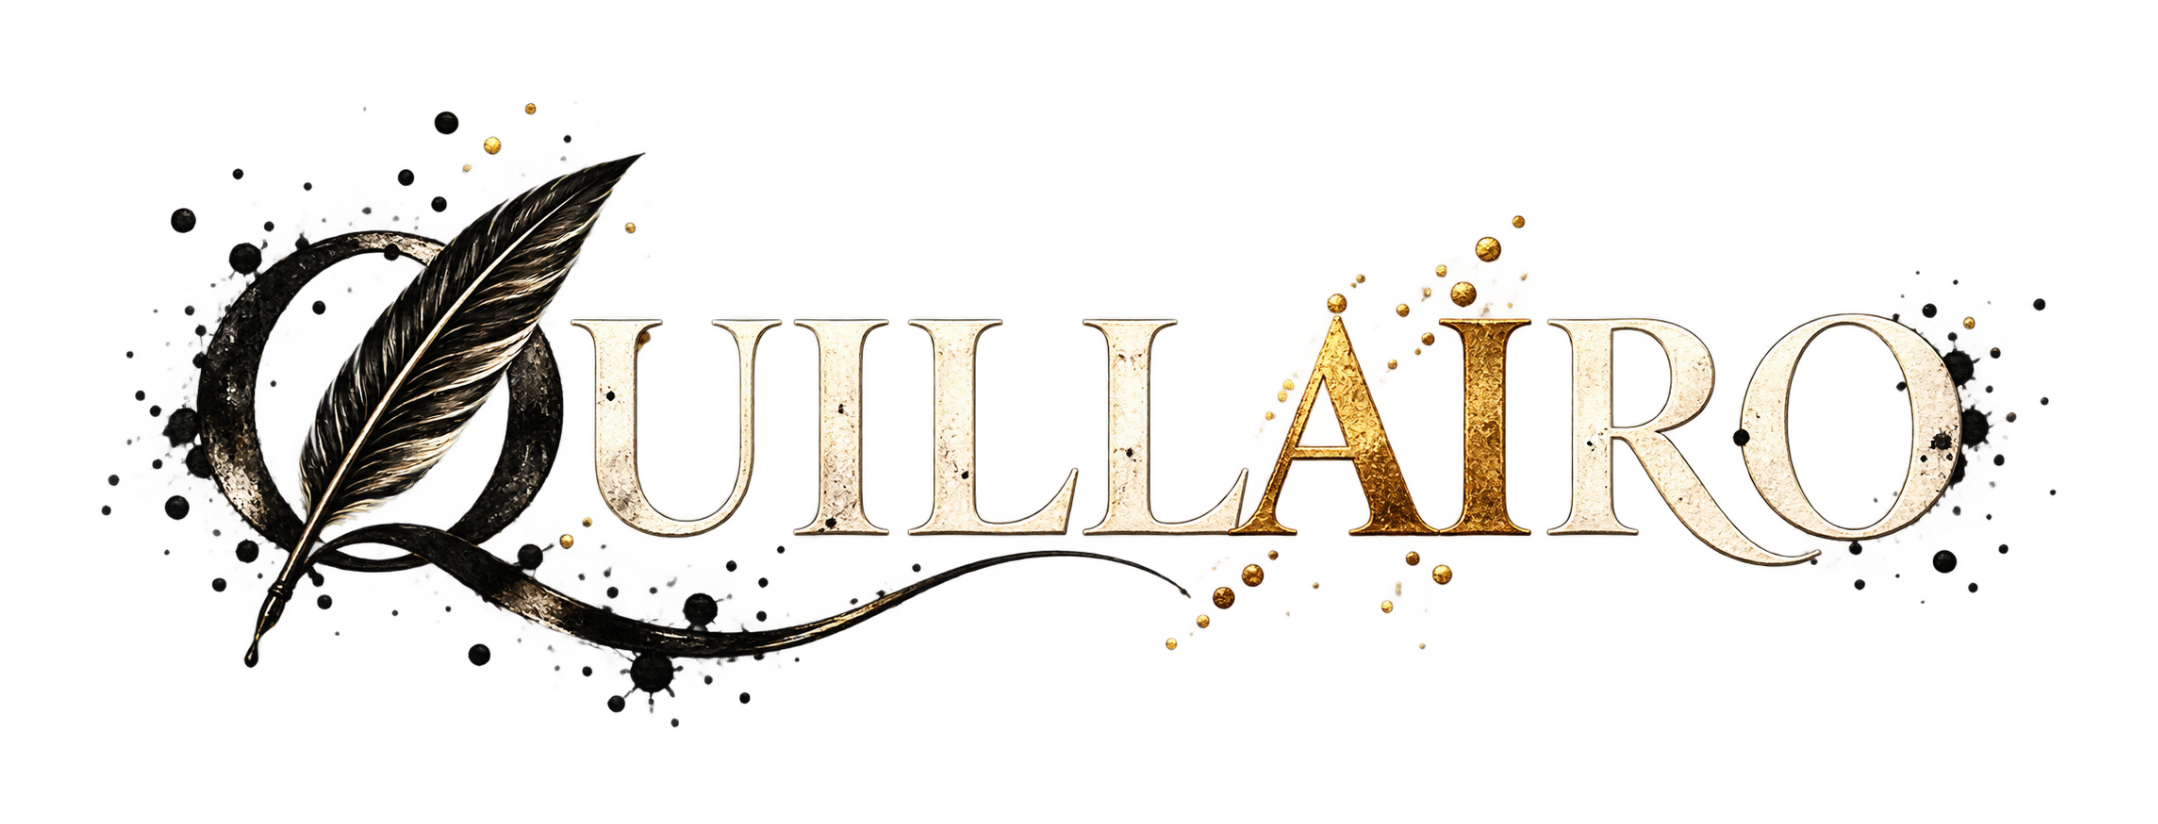
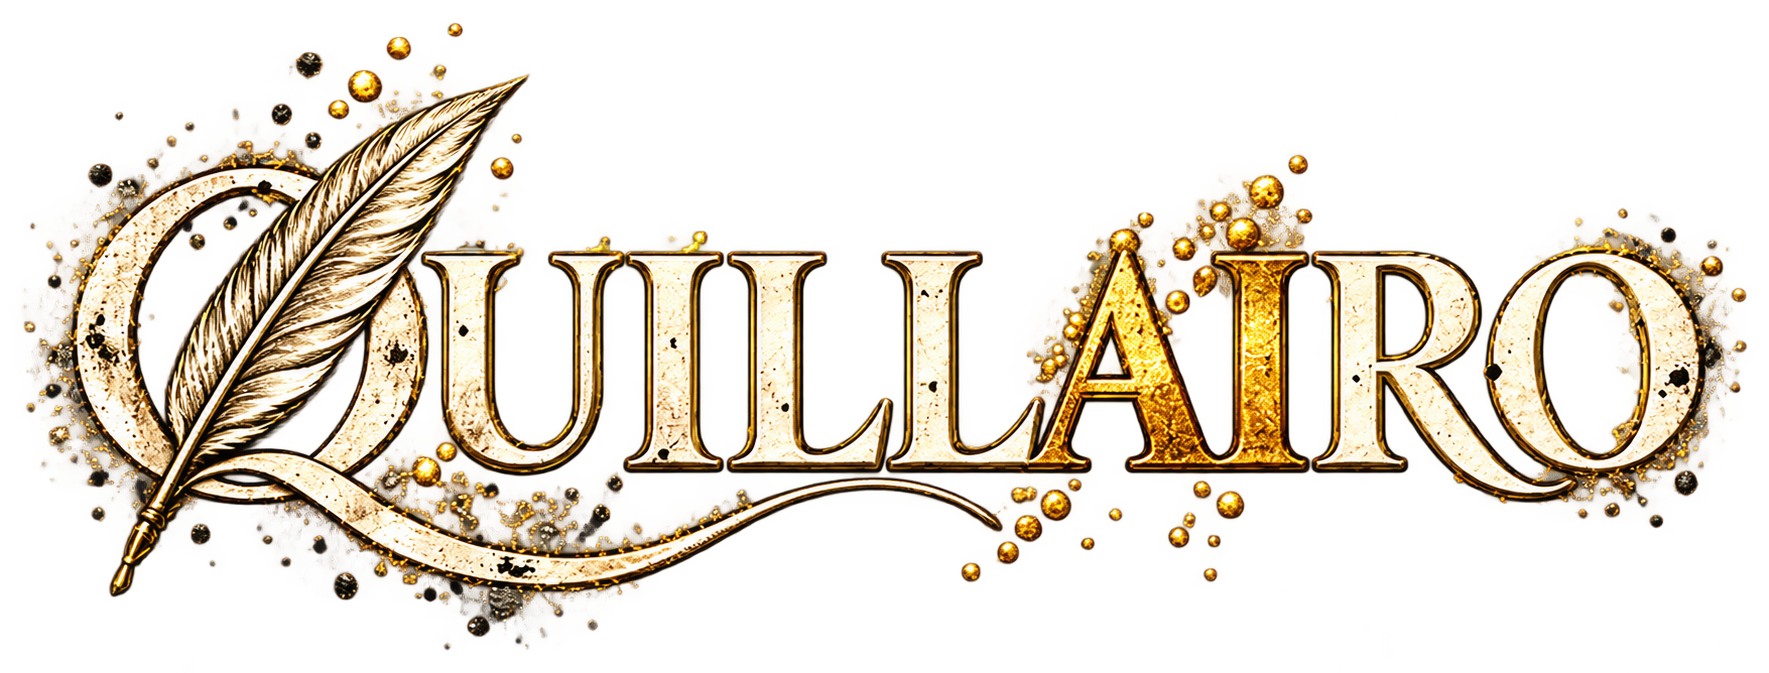
Pass 66.9.1: Story Time drop cap regression fix

diff --git a/frontend/src/pages/game/inkboundPass658.css b/frontend/src/pages/game/inkboundPass658.css
@@ -5,7 +5,7 @@
 .inkbound-lobby[data-ink-paper="cream"]{--ia-paper:#eee7d9;--ia-text:#30291e;--ia-copy:#504433;--ia-dim:#6a5a46;--ia-rule:rgba(55,40,22,.22);--ia-strong-rule:rgba(55,40,22,.39);--ia-wash:rgba(55,40,22,.065)}
 .inkbound-lobby[data-ink-paper="navy"]{--ia-paper:#0b1725;--ia-text:#f4e9d6;--ia-copy:#ded2bd;--ia-dim:#c0b6a5;--ia-rule:rgba(242,246,250,.26);--ia-strong-rule:rgba(242,246,250,.43);--ia-wash:rgba(242,246,250,.08);color-scheme:dark}
 .inkbound-lobby[data-ink-paper="phosphor"]{--ia-paper:#06140c;--ia-text:#c6f9b1;--ia-copy:#a9dfa1;--ia-dim:#94bf8b;--ia-rule:rgba(201,255,184,.25);--ia-strong-rule:rgba(201,255,184,.43);--ia-wash:rgba(201,255,184,.075);color-scheme:dark}
-.inkbound-lobby[data-ink-paper="midnight"]{--ia-paper:#141516;--ia-text:#f5f6f3;--ia-copy:#ced2d0;--ia-dim:#adb2b0;--ia-rule:rgba(245,246,243,.26);--ia-strong-rule:rgba(245,246,243,.44);--ia-wash:rgba(245,246,243,.07);color-scheme:dark}
+.inkbound-lobby[data-ink-paper="midnight"]{--ia-paper:#141516;--ia-text:#f4e9d6;--ia-copy:#e3d8c5;--ia-dim:#c3b8a8;--ia-rule:rgba(244,233,214,.26);--ia-strong-rule:rgba(244,233,214,.44);--ia-wash:rgba(244,233,214,.07);color-scheme:dark}
 .game-site-shell:has(.inkbound-lobby){min-height:100dvh!important;height:auto!important;max-height:none!important;overflow:visible!important;background:var(--page-paper,#f7f3e9)!important}
 .game-site-shell:has(.inkbound-lobby)>.site-header{display:none!important}
 .game-site-shell:has(.inkbound-lobby)>.game-main{height:auto!important;min-height:0!important;max-height:none!important;overflow:visible!important;width:100%!important;max-width:none!important;padding:0!important;margin:0!important;display:block!important}
@@ -74,7 +74,7 @@ body:has(.inkbound-lobby[data-ink-paper="ivory"],.inkbound-live[data-ink-paper="
 body:has(.inkbound-lobby[data-ink-paper="cream"],.inkbound-live[data-ink-paper="cream"]) #modal-root{--ia-paper:#eee7d9;--ia-text:#30291e;--ia-copy:#504433;--ia-dim:#6a5a46;--ia-rule:rgba(55,40,22,.22);--ia-wash:rgba(55,40,22,.065);--ia-strong-rule:rgba(55,40,22,.39)}
 body:has(.inkbound-lobby[data-ink-paper="navy"],.inkbound-live[data-ink-paper="navy"]) #modal-root{--ia-paper:#0b1725;--ia-text:#f4e9d6;--ia-copy:#ded2bd;--ia-dim:#c0b6a5;--ia-rule:rgba(242,246,250,.26);--ia-wash:rgba(242,246,250,.08);--ia-strong-rule:rgba(242,246,250,.43);color-scheme:dark}
 body:has(.inkbound-lobby[data-ink-paper="phosphor"],.inkbound-live[data-ink-paper="phosphor"]) #modal-root{--ia-paper:#06140c;--ia-text:#c6f9b1;--ia-copy:#a9dfa1;--ia-dim:#94bf8b;--ia-rule:rgba(201,255,184,.25);--ia-wash:rgba(201,255,184,.075);--ia-strong-rule:rgba(201,255,184,.43);color-scheme:dark}
-body:has(.inkbound-lobby[data-ink-paper="midnight"],.inkbound-live[data-ink-paper="midnight"]) #modal-root{--ia-paper:#141516;--ia-text:#f5f6f3;--ia-copy:#ced2d0;--ia-dim:#adb2b0;--ia-rule:rgba(245,246,243,.26);--ia-wash:rgba(245,246,243,.07);--ia-strong-rule:rgba(245,246,243,.44);color-scheme:dark}
+body:has(.inkbound-lobby[data-ink-paper="midnight"],.inkbound-live[data-ink-paper="midnight"]) #modal-root{--ia-paper:#141516;--ia-text:#f4e9d6;--ia-copy:#e3d8c5;--ia-dim:#c3b8a8;--ia-rule:rgba(244,233,214,.26);--ia-wash:rgba(244,233,214,.07);--ia-strong-rule:rgba(244,233,214,.44);color-scheme:dark}
 body:has(.inkbound-lobby,.inkbound-live) #modal-root .modal-panel{background:var(--ia-paper)!important;color:var(--ia-copy)!important;border:1px solid var(--ia-strong-rule)!important;font-family:"Iowan Old Style",Georgia,serif!important;box-shadow:0 18px 65px rgba(0,0,0,.3)!important}
 body:has(.inkbound-lobby,.inkbound-live) #modal-root .modal-panel .panel-heading{border-bottom:1px solid var(--ia-rule)!important}
 body:has(.inkbound-lobby,.inkbound-live) #modal-root .modal-panel .panel-heading strong{color:var(--ia-text)!important;font:400 clamp(26px,3vw,40px) "Iowan Old Style",Georgia,serif!important}

diff --git a/frontend/src/pages/game/inkboundAdventurePass657.css b/frontend/src/pages/game/inkboundAdventurePass657.css
@@ -4,7 +4,7 @@
 .game-site-shell:has(.inkbound-live[data-ink-paper="cream"]){--ia-paper:#eee7d9;--ia-text:#30291e;--ia-copy:#504433;--ia-dim:#6a5a46;--ia-rule:rgba(55,40,22,.22);--ia-strong-rule:rgba(55,40,22,.39);--ia-wash:rgba(55,40,22,.065);--ia-scrim:rgba(33,24,16,.76)}
 .game-site-shell:has(.inkbound-live[data-ink-paper="navy"]){--ia-paper:#0b1725;--ia-text:#f4e9d6;--ia-copy:#ded2bd;--ia-dim:#c0b6a5;--ia-rule:rgba(242,246,250,.26);--ia-strong-rule:rgba(242,246,250,.43);--ia-wash:rgba(242,246,250,.08);--ia-scrim:rgba(2,8,15,.88);color-scheme:dark}
 .game-site-shell:has(.inkbound-live[data-ink-paper="phosphor"]){--ia-paper:#06140c;--ia-text:#c6f9b1;--ia-copy:#a9dfa1;--ia-dim:#94bf8b;--ia-rule:rgba(201,255,184,.25);--ia-strong-rule:rgba(201,255,184,.43);--ia-wash:rgba(201,255,184,.075);--ia-scrim:rgba(3,13,8,.9);color-scheme:dark}
-.game-site-shell:has(.inkbound-live[data-ink-paper="midnight"]){--ia-paper:#141516;--ia-text:#f5f6f3;--ia-copy:#ced2d0;--ia-dim:#adb2b0;--ia-rule:rgba(245,246,243,.26);--ia-strong-rule:rgba(245,246,243,.44);--ia-wash:rgba(245,246,243,.07);--ia-scrim:rgba(2,3,4,.90);color-scheme:dark}
+.game-site-shell:has(.inkbound-live[data-ink-paper="midnight"]){--ia-paper:#141516;--ia-text:#f4e9d6;--ia-copy:#ced2d0;--ia-dim:#adb2b0;--ia-rule:rgba(245,246,243,.26);--ia-strong-rule:rgba(245,246,243,.44);--ia-wash:rgba(245,246,243,.07);--ia-scrim:rgba(2,3,4,.90);color-scheme:dark}
 /* Pass 65.7 — live manuscript. Real choices, rolls and story states are never faked.
    Paper is CSS; the panoramic drawing is a genuinely transparent PNG.
    No radial image masks, blurred rectangles or decorative absolute captions. */
@@ -13,7 +13,7 @@
 .inkbound-live[data-ink-paper="cream"],.inkbound-turn-theater[data-ink-paper="cream"]{--ia-paper:#eee7d9;--ia-text:#30291e;--ia-copy:#504433;--ia-dim:#6a5a46;--ia-rule:rgba(55,40,22,.22);--ia-strong-rule:rgba(55,40,22,.39);--ia-wash:rgba(55,40,22,.065);--ia-scrim:rgba(33,24,16,.76)}
 .inkbound-live[data-ink-paper="navy"],.inkbound-turn-theater[data-ink-paper="navy"]{--ia-paper:#0b1725;--ia-text:#f4e9d6;--ia-copy:#ded2bd;--ia-dim:#c0b6a5;--ia-rule:rgba(242,246,250,.26);--ia-strong-rule:rgba(242,246,250,.43);--ia-wash:rgba(242,246,250,.08);--ia-scrim:rgba(2,8,15,.88);color-scheme:dark}
 .inkbound-live[data-ink-paper="phosphor"],.inkbound-turn-theater[data-ink-paper="phosphor"]{--ia-paper:#06140c;--ia-text:#c6f9b1;--ia-copy:#a9dfa1;--ia-dim:#94bf8b;--ia-rule:rgba(201,255,184,.25);--ia-strong-rule:rgba(201,255,184,.43);--ia-wash:rgba(201,255,184,.075);--ia-scrim:rgba(3,13,8,.9);color-scheme:dark}
-.inkbound-live[data-ink-paper="midnight"],.inkbound-turn-theater[data-ink-paper="midnight"]{--ia-paper:#141516;--ia-text:#f5f6f3;--ia-copy:#ced2d0;--ia-dim:#adb2b0;--ia-rule:rgba(245,246,243,.26);--ia-strong-rule:rgba(245,246,243,.44);--ia-wash:rgba(245,246,243,.07);--ia-scrim:rgba(2,3,4,.90);color-scheme:dark}
+.inkbound-live[data-ink-paper="midnight"],.inkbound-turn-theater[data-ink-paper="midnight"]{--ia-paper:#141516;--ia-text:#f4e9d6;--ia-copy:#ced2d0;--ia-dim:#adb2b0;--ia-rule:rgba(245,246,243,.26);--ia-strong-rule:rgba(245,246,243,.44);--ia-wash:rgba(245,246,243,.07);--ia-scrim:rgba(2,3,4,.90);color-scheme:dark}
 
 /* Correct old fixed-height Living Book constraints ONLY for an active Inkbound reader. */
 .game-site-shell:has(.inkbound-live){min-height:100dvh!important;height:auto!important;max-height:none!important;overflow:visible!important;background:var(--ia-paper,#f7f3e9)!important}

diff --git a/frontend/src/features/adventure/StoryReveal.tsx b/frontend/src/features/adventure/StoryReveal.tsx
@@ -17,6 +17,14 @@ export function isDialogueParagraph(text: string): boolean {
   return /^\s*(?:[“"‘]|[—–]\s+|[\w -]{1,32}:\s*[“"])/.test(text);
 }
 
+/** The first letter is visual only; preserve the exact word for narration and screen readers. */
+function withOpeningInitial(token: string, decorate: boolean) {
+  if (!decorate) return token;
+  const match = /^([“"‘'([{]*)(\p{L})(.*)$/us.exec(token);
+  if (!match) return token;
+  return <>{match[1]}<span className="story-reveal-dropcap">{match[2]}</span>{match[3]}</>;
+}
+
 function prefersReducedMotion() {
   return window.matchMedia?.("(prefers-reduced-motion: reduce)").matches ?? false;
 }
@@ -80,7 +88,7 @@ export function StoryReveal({ sceneId, text, enabled, followNarration = false, n
               >{sentence.text.split(/(\s+)/).map((token, tokenIndex) => {
                 if (!token.trim()) return token;
                 const current = wordIndex++;
-                return <span key={`${sentenceIndex}:${tokenIndex}`} className={`story-reveal-word ${current < visibleWords ? "is-visible" : ""}`}>{token}</span>;
+                return <span key={`${sentenceIndex}:${tokenIndex}`} className={`story-reveal-word ${current < visibleWords ? "is-visible" : ""}`}>{withOpeningInitial(token, decorativeInitials && current === 0)}</span>;
               })}</span>
             ) : null)}
           </p>
@@ -94,7 +102,7 @@ export function StoryReveal({ sceneId, text, enabled, followNarration = false, n
                   className={`story-reveal-word ${current < visibleWords ? "is-visible" : ""}`}
                   key={`${current}:${tokenIndex}`}
                 >
-                  {token}
+                  {withOpeningInitial(token, decorativeInitials && current === 0)}
                 </span>
               );
             })}

diff --git a/frontend/src/components/brand/BrandLockup.tsx b/frontend/src/components/brand/BrandLockup.tsx
@@ -1,13 +1,18 @@
 /** Approved Quillairo lockups. Never typeset/recreate the Q/quill/gold AI as live text. */
 import type { CSSProperties } from "react";
+import type { InkPaper } from "../../features/appearance/inkboundPaper";
 
 type BrandSize = "navigation" | "hero" | "footer";
-export function BrandLockup({size="navigation", className="", style}: {
-  size?: BrandSize; className?: string; style?: CSSProperties;
+export function BrandLockup({size="navigation", className="", style, paper="ivory"}: {
+  size?: BrandSize; className?: string; style?: CSSProperties; paper?: InkPaper;
 }) {
-  return <span className={`quillairo-lockup quillairo-lockup--${size} ${className}`} style={style} role="img" aria-label="Quillairo">
-    <img className="quillairo-lockup__on-light" src="/brand/primary-light.png" alt="" aria-hidden="true" draggable={false} />
-    <img className="quillairo-lockup__on-dark" src="/brand/secondary-dark.png" alt="" aria-hidden="true" draggable={false} />
+  // Render only ONE approved logo image. The old CSS-based two-image switch
+  // could display both variants because legacy image rules use !important.
+  const dark = paper === "navy" || paper === "phosphor" || paper === "midnight";
+  const src = dark ? "/brand/secondary-dark.png" : "/brand/primary-light.png";
+  return <span className={`quillairo-lockup quillairo-lockup--${size} ${className}`} style={style}
+    role="img" aria-label="Quillairo" data-brand-tone={dark ? "dark" : "light"}>
+    <img className="quillairo-lockup__art" src={src} alt="" aria-hidden="true" draggable={false} />
   </span>;
 }
 export function QuillairoMonogram({className=""}: {className?: string}) {

diff --git a/frontend/src/pages/game/inkboundAuthenticatedDashboard.css b/frontend/src/pages/game/inkboundAuthenticatedDashboard.css
@@ -41,7 +41,7 @@ body:has(.inkbound-home) .game-site-shell.p64-shell.is-desk-home .game-main{
 .inkbound-home[data-ink-paper="cream"]{--paper:#eee7d9;--paper-text:#30291e;--paper-copy:#504433;--paper-dim:#6a5a46;--paper-rule:rgba(55,40,22,.22);--paper-strong-rule:rgba(55,40,22,.39)}
 .inkbound-home[data-ink-paper="navy"]{--paper:#0b1725;--paper-text:#f4e9d6;--paper-copy:#ded2bd;--paper-dim:#c0b6a5;--paper-rule:rgba(242,246,250,.26);--paper-strong-rule:rgba(242,246,250,.43);color-scheme:dark}
 .inkbound-home[data-ink-paper="phosphor"]{--paper:#06140c;--paper-text:#c6f9b1;--paper-copy:#a9dfa1;--paper-dim:#94bf8b;--paper-rule:rgba(201,255,184,.25);--paper-strong-rule:rgba(201,255,184,.43);color-scheme:dark}
-.inkbound-home[data-ink-paper="midnight"]{--paper:#141516;--paper-text:#f5f6f3;--paper-copy:#ced2d0;--paper-dim:#adb2b0;--paper-rule:rgba(245,246,243,.26);--paper-strong-rule:rgba(245,246,243,.44);color-scheme:dark}
+.inkbound-home[data-ink-paper="midnight"]{--paper:#141516;--paper-text:#f4e9d6;--paper-copy:#e3d8c5;--paper-dim:#c3b8a8;--paper-rule:rgba(244,233,214,.26);--paper-strong-rule:rgba(244,233,214,.44);color-scheme:dark}
 .inkbound-home *{box-sizing:border-box}
 .inkbound-home button,.inkbound-home input{font:inherit}
 .inkbound-home button{cursor:pointer;border:0;border-radius:0;box-shadow:none!important}

diff --git a/frontend/src/styles/quillairoBrand.css b/frontend/src/styles/quillairoBrand.css
@@ -5,10 +5,9 @@
 .quillairo-lockup--navigation {width:clamp(156px,15vw,223px);height:57px;}
 .quillairo-lockup--footer {width:min(250px,100%);height:77px;}
 .quillairo-lockup--hero {width:min(520px,100%);height:clamp(100px,14vw,170px);margin:0 0 18px;}
-.quillairo-lockup .quillairo-lockup__on-dark {display:none!important;}
-/* Approved second treatment, preserving its gold AI, is legible on dark ink paper. */
-:where([data-ink-paper="navy"],[data-ink-paper="phosphor"],[data-ink-paper="midnight"]) .quillairo-lockup__on-light {display:none!important;}
-:where([data-ink-paper="navy"],[data-ink-paper="phosphor"],[data-ink-paper="midnight"]) .quillairo-lockup .quillairo-lockup__on-dark {display:block!important;}
+/* Theme decides the only image source in React; CSS cannot bring back a second logo. */
+.quillairo-lockup .quillairo-lockup__art{display:block!important;}
+:where([data-ink-paper="navy"],[data-ink-paper="phosphor"],[data-ink-paper="midnight"]) .quillairo-lockup{isolation:isolate;}
 /* Standalone non-Inkbound headers use the primary mark on a paper surface. */
 .site-header .brand.q-site-brand {display:inline-flex;align-items:center;min-width:0;gap:0;text-decoration:none;overflow:visible;flex:0 0 auto;}
 .site-header .brand.q-site-brand .quillairo-lockup {overflow:visible;}

diff --git a/frontend/src/features/appearance/inkboundPaperPreferences.css b/frontend/src/features/appearance/inkboundPaperPreferences.css
@@ -23,7 +23,7 @@
 .inkpaper-option[data-ink-paper="cream"]{--paper:#eee7d9;--paper-text:#30291e;--paper-copy:#504433;--paper-rule:rgba(55,40,22,.22)}
 .inkpaper-option[data-ink-paper="navy"]{--paper:#0b1725;--paper-text:#f4e9d6;--paper-copy:#ded2bd;--paper-rule:rgba(242,246,250,.30)}
 .inkpaper-option[data-ink-paper="phosphor"]{--paper:#06140c;--paper-text:#c6f9b1;--paper-copy:#a9dfa1;--paper-rule:rgba(201,255,184,.30)}
-.inkpaper-option[data-ink-paper="midnight"]{--paper:#141516;--paper-text:#f5f6f3;--paper-copy:#ced2d0;--paper-rule:rgba(245,246,243,.30)}
+.inkpaper-option[data-ink-paper="midnight"]{--paper:#141516;--paper-text:#f4e9d6;--paper-copy:#e3d8c5;--paper-rule:rgba(244,233,214,.30)}
 @media(max-width:850px){.inkpaper-options{grid-template-columns:repeat(2,minmax(0,1fr))}}
 @media(max-width:520px){.inkpaper-preferences{padding:22px 17px}.inkpaper-options{grid-template-columns:1fr 1fr;gap:20px 11px}.inkpaper-sample{min-height:155px;padding:13px}.inkpaper-sample-title{font-size:20px}.inkpaper-option-name{font-size:12px}.inkpaper-option-description{font-size:11px}}
 @media(prefers-reduced-motion:reduce){.inkpaper-sample{transition:none}}

diff --git a/frontend/src/layouts/GameLayout.tsx b/frontend/src/layouts/GameLayout.tsx
@@ -29,7 +29,7 @@ export function GameLayout() {
     <div className={`site-shell game-site-shell p64-shell inkbound-system-shell ${isAdventureMode ? "is-adventure-mode" : ""} ${isDeskHome ? "is-desk-home" : ""}`} data-ink-paper={paper} data-platform-skin={preferences.platformSkin} data-edition-family={edition.family} data-edition-mode={edition.mode} data-installed-library-theme={Boolean(libraryTheme)} data-theme-material={libraryTheme?.material} style={(libraryTheme ? themeCssVars(libraryTheme) : themeEditionCssVars(edition)) as CSSProperties}>
       <a className="skip-link" href="#main-content">SKIP TO CONTENT</a>
       <header className={`site-header game-header ${isAdventureMode ? "is-adventure-header" : ""}`}>
-        <Link className="brand q-site-brand" to="/game" aria-label="Quillairo home"><BrandLockup /></Link>
+        <Link className="brand q-site-brand" to="/game" aria-label="Quillairo home"><BrandLockup paper={paper} /></Link>
 
         <nav className="header-nav game-nav" aria-label="Primary navigation">
           <NavLink to="/game" end>HOME</NavLink>

diff --git a/frontend/src/styles/inkboundStoryParityPass662.css b/frontend/src/styles/inkboundStoryParityPass662.css
@@ -166,3 +166,18 @@
      The center of the illustration remains clear of the heading's reading measure. */
   .inkbound-live .ibl-chapter-illustration{margin-top:-72px}
 }
+
+/* Pass 66.9: manuscript initial inside the real StoryReveal tokens.
+   Do not use :first-letter on animated spans: it interferes with the reveal. */
+.inkbound-live .ibl-prose .story-reveal[data-decorative-initials="true"] .story-reveal-dropcap{
+  float:left;
+  font:400 clamp(73px,7.6vw,112px)/.72 "Iowan Old Style",Georgia,serif;
+  letter-spacing:-.065em;
+  margin:9px 16px 2px 0;
+  color:var(--ia-text);
+  text-shadow:none;
+}
+.inkbound-live .ibl-prose .story-reveal[data-decorative-initials="false"] .story-reveal-dropcap{float:none;font:inherit;letter-spacing:inherit;margin:0}
+@media(max-width:640px){
+  .inkbound-live .ibl-prose .story-reveal-dropcap{font-size:76px;margin-right:10px}
+}

diff --git a/frontend/src/pages/game/InkboundAuthenticatedDashboard.tsx b/frontend/src/pages/game/InkboundAuthenticatedDashboard.tsx
@@ -124,7 +124,7 @@ export function InkboundAuthenticatedDashboard({
     <a href="#i656-main" className="i656-skip">Skip to your adventures</a>
     <div className="i656-sheet">
       <header className="i656-header">
-        <button type="button" className="i656-wordmark" onClick={() => setPage("home")} aria-label="Quillairo home"><BrandLockup /></button>
+        <button type="button" className="i656-wordmark" onClick={() => setPage("home")} aria-label="Quillairo home"><BrandLockup paper={paper} /></button>
         <nav className="i656-nav" aria-label="Library navigation">
           {navigation.map((item) => <button key={item.id} type="button" aria-current={page === item.id ? "page" : undefined} onClick={() => setPage(item.id)}>{item.label}</button>)}
         </nav>

diff --git a/frontend/src/styles/inkboundSystemPass660.css b/frontend/src/styles/inkboundSystemPass660.css
@@ -27,7 +27,7 @@
   --ib-mono:"Courier Prime","Courier New",monospace;
 }
 :where(.inkbound-system-shell,.inkbound-global-dialog)[data-ink-paper="midnight"]{
-  --ib-paper:#141516;--ib-text:#f5f6f3;--ib-copy:#d6d9d6;--ib-muted:#b4bab6;--ib-line:rgba(245,246,243,.28);--ib-wash:rgba(245,246,243,.065);--ib-highlight:#f5f6f3;--ib-button-ink:#141516;color-scheme:dark;
+  --ib-paper:#141516;--ib-text:#f4e9d6;--ib-copy:#e3d8c5;--ib-muted:#c3b8a8;--ib-line:rgba(244,233,214,.28);--ib-wash:rgba(244,233,214,.065);--ib-highlight:#f4e9d6;--ib-button-ink:#141516;color-scheme:dark;
 }
 /* Reader palettes are existing reader variables; override in one place. */
 :where(.inkbound-home,.inkbound-live,.inkbound-lobby,.inkbound-turn-theater)[data-ink-paper="parchment"]{

diff --git a/frontend/src/pages/game/InkboundLiveRoom.tsx b/frontend/src/pages/game/InkboundLiveRoom.tsx
@@ -112,7 +112,7 @@ export function InkboundLiveRoom(props: InkboundLiveRoomProps) {
   return <div className="inkbound inkbound-live" data-ink-paper={props.paper} aria-label="Inkbound adventure reader">
     <a className="inkbound-skip" href="#ibl-chapter">Skip to chapter</a>
     <header className="ibl-topbar">
-      <Link to="/game" className="ibl-brand" aria-label="Quillairo home"><BrandLockup /></Link>
+      <Link to="/game" className="ibl-brand" aria-label="Quillairo home"><BrandLockup paper={props.paper} /></Link>
       <span className="ibl-header-rule" aria-hidden="true" />
       <nav aria-label="Adventure navigation" className="ibl-nav">
         <button type="button" onClick={() => toggle("journal")}>▤ <span>Journal</span></button>
